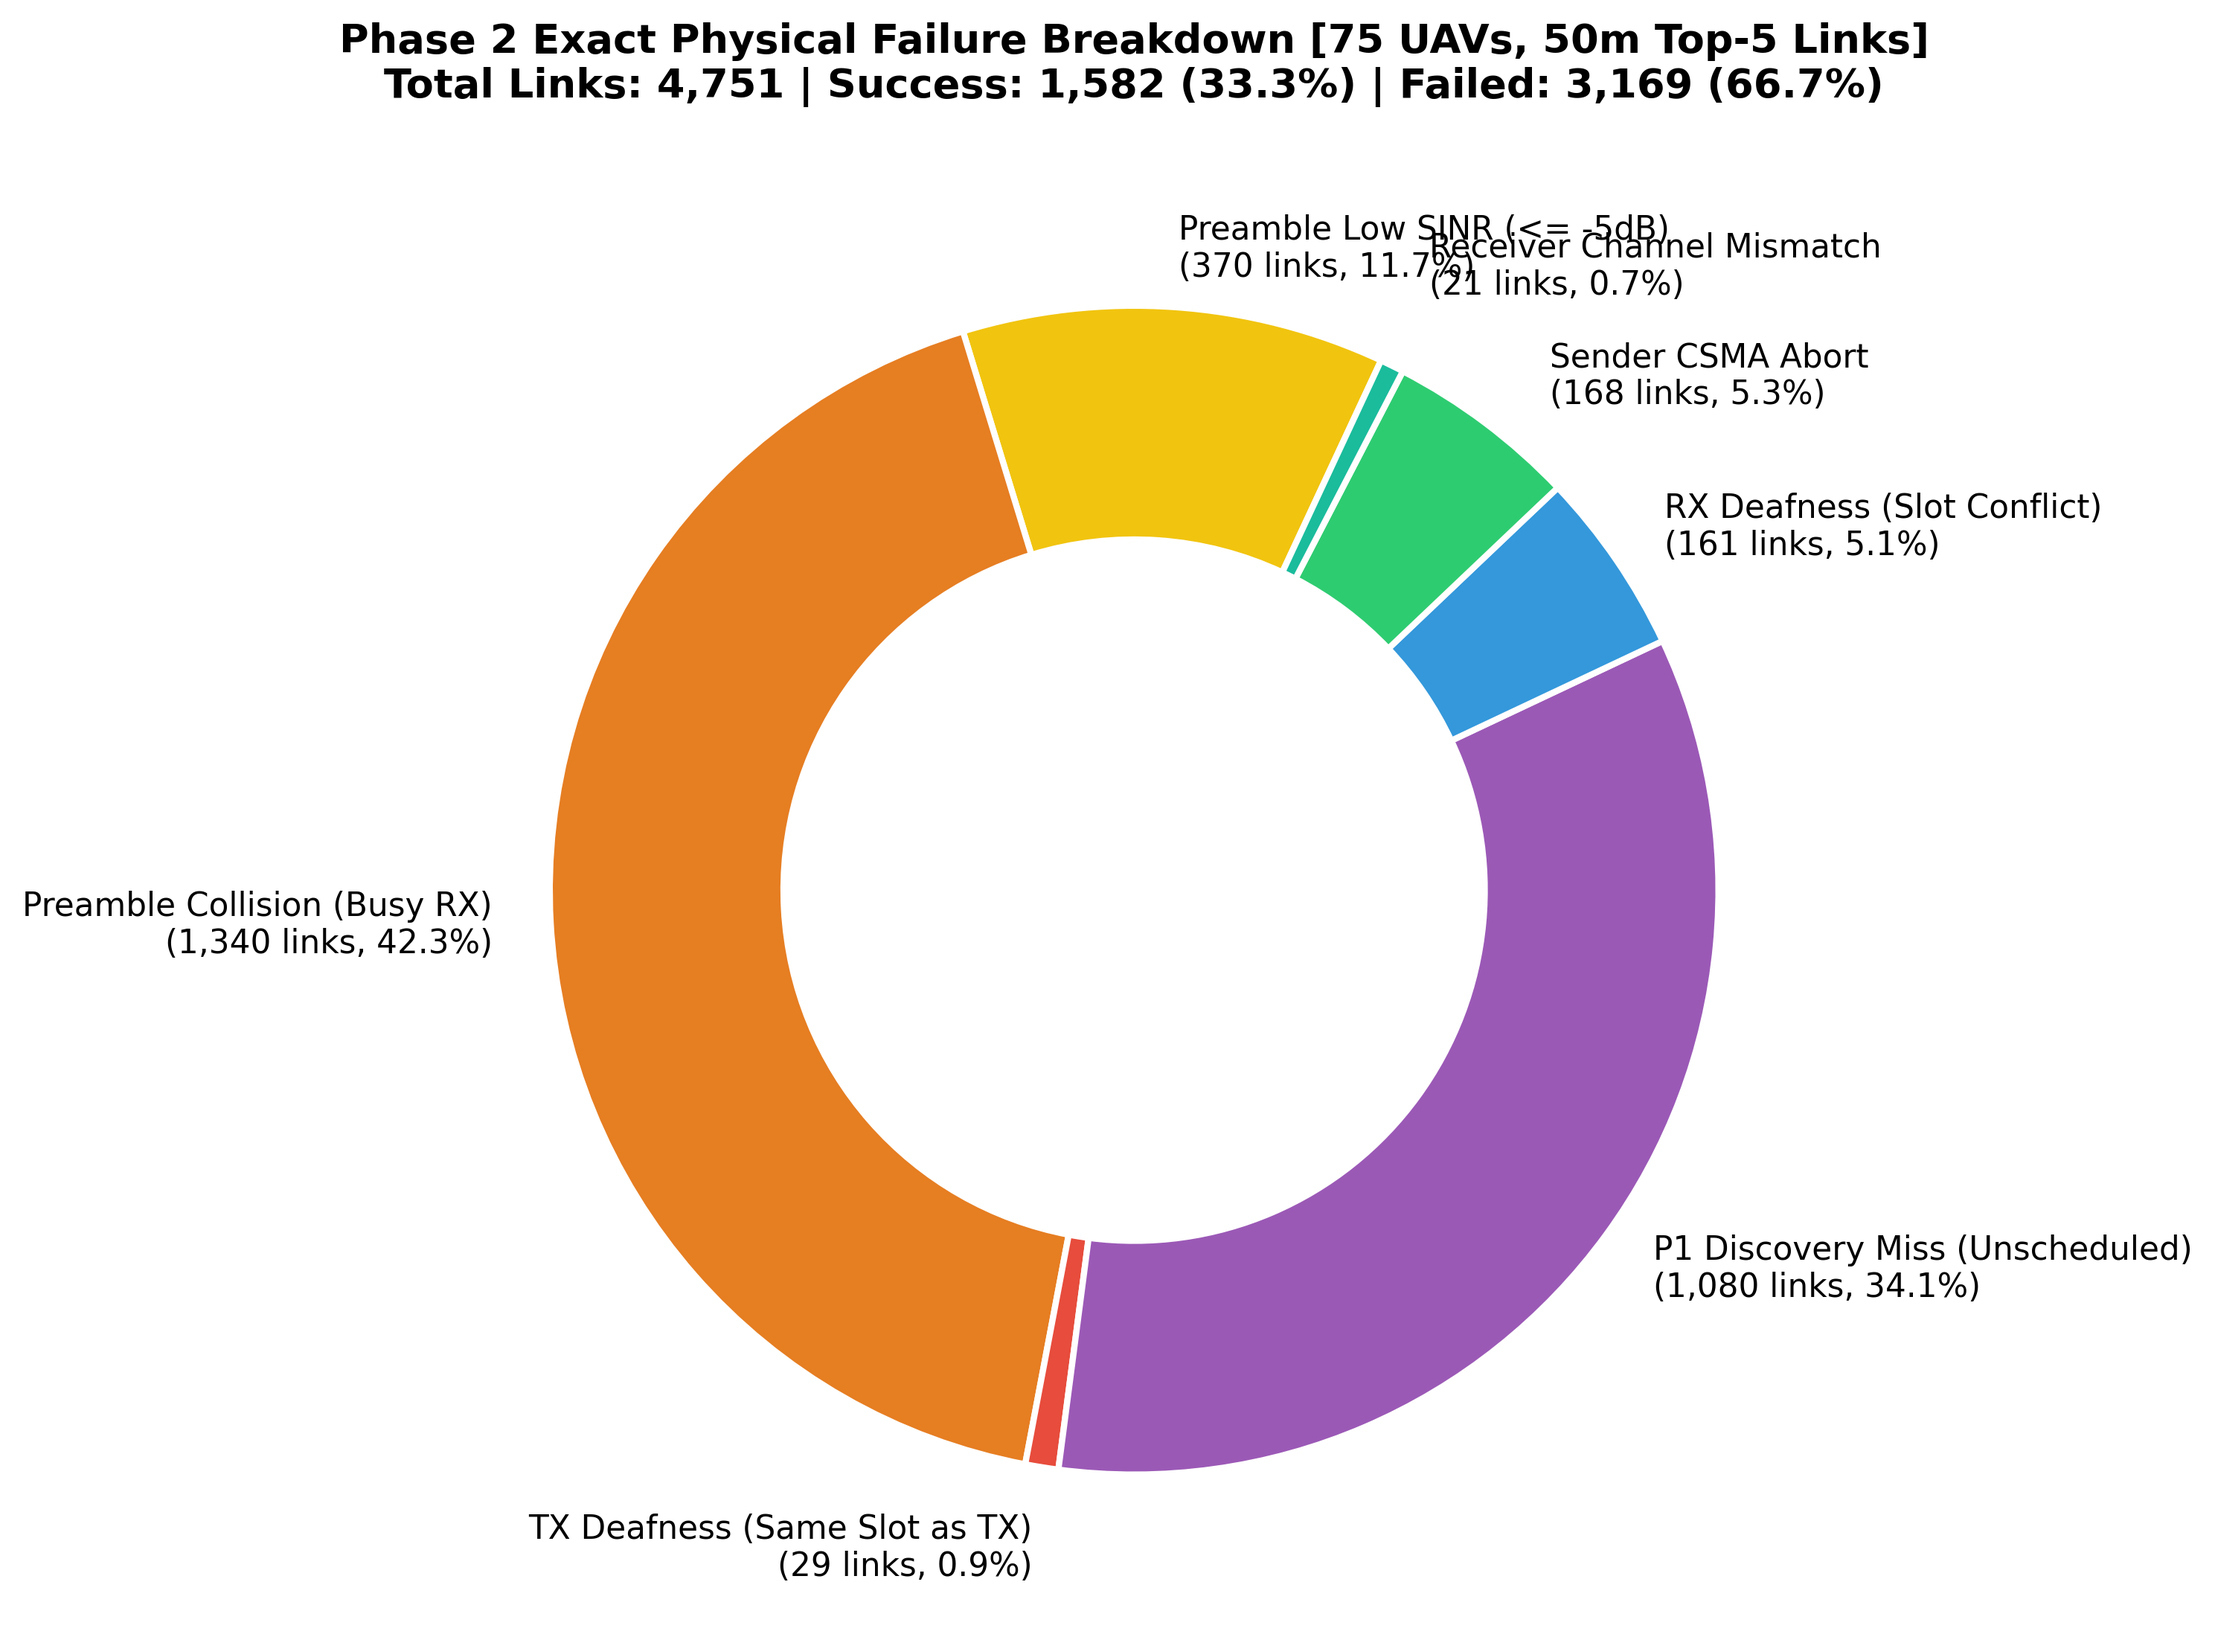
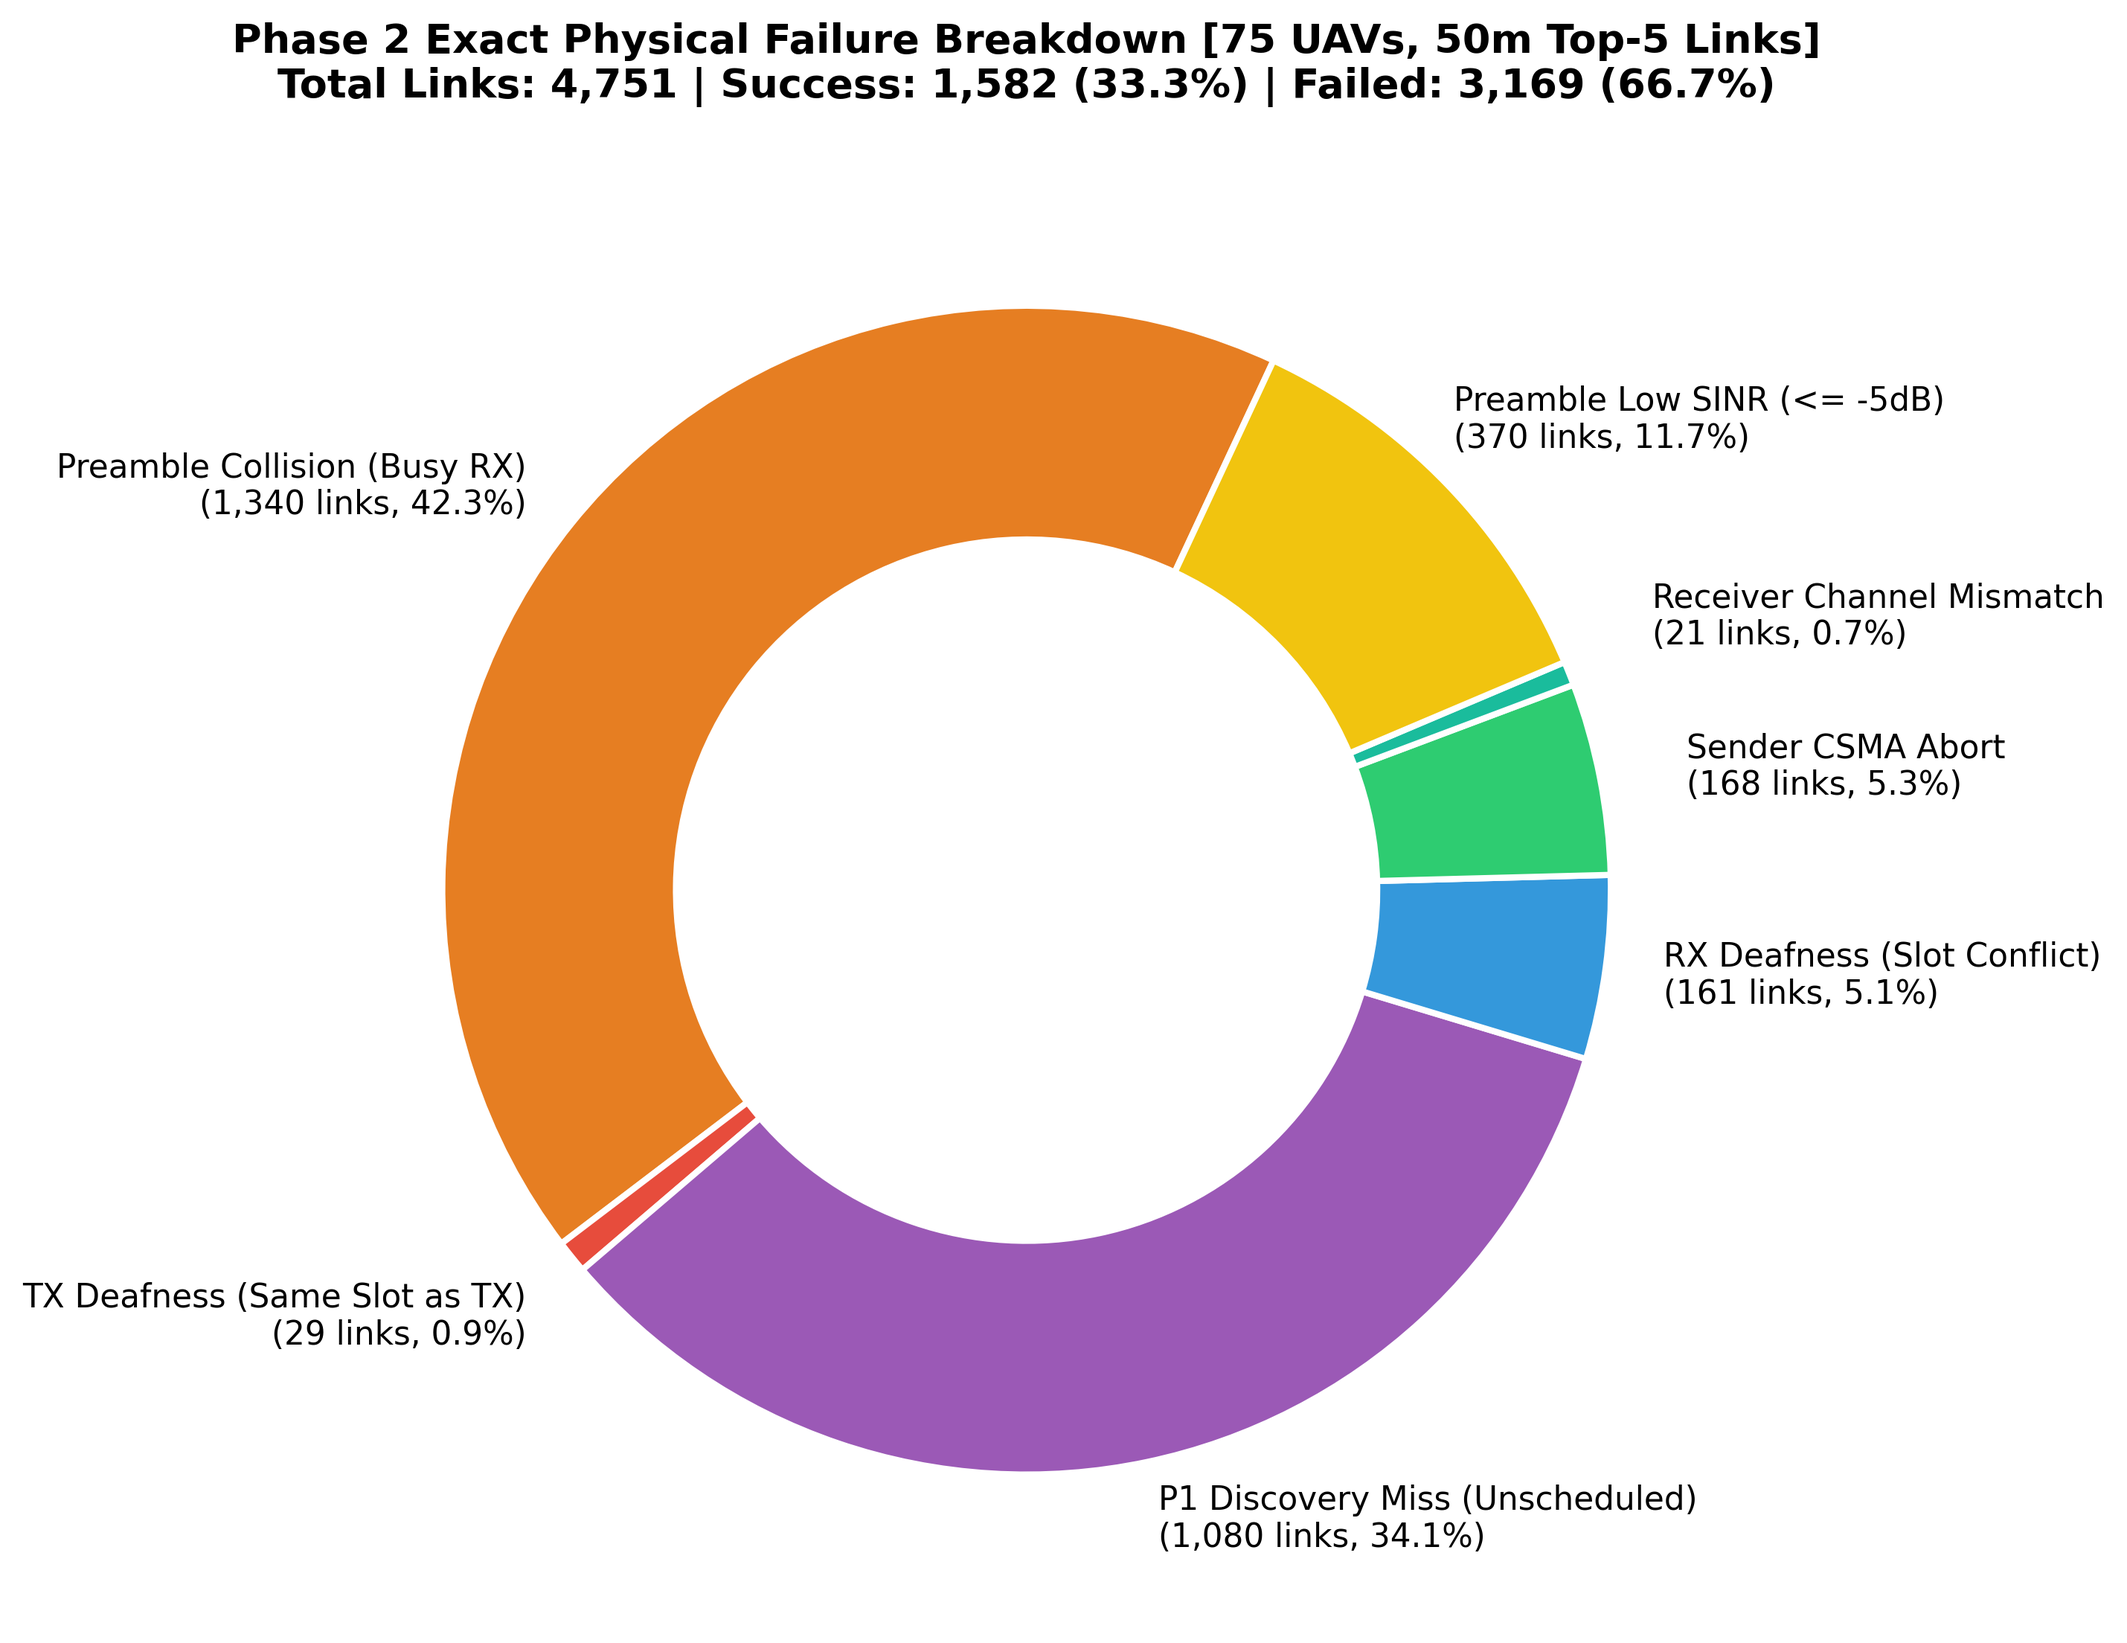
fix(viz): perfect donut slice spacing without any overlap

diff --git a/run_p2_exact_analysis.py b/run_p2_exact_analysis.py
@@ -151,13 +151,13 @@ try:
     }
 
     plot_order = [
-        "PREAMBLE_LOW_SINR",
         "PREAMBLE_COLLISION_BUSY_RX",
         "TX_DEAFNESS_SAME_SLOT",
         "P1_DISCOVERY_MISS",
         "RX_DEAFNESS_SLOT_CONFLICT",
         "SENDER_CSMA_ABORT",
         "RECEIVER_CHANNEL_MISMATCH",
+        "PREAMBLE_LOW_SINR",
         "PAYLOAD_INTERFERENCE_DROP",
         "RADIO_TURNAROUND_BUSY"
     ]
@@ -189,14 +189,18 @@ try:
     for t in texts:
         pos = list(t.get_position())
         if 'Receiver Channel Mismatch' in t.get_text():
-            pos[1] += 0.08
-            pos[0] += 0.02
+            pos[1] += 0.06
+            pos[0] += 0.05
             t.set_position(pos)
         elif 'Sender CSMA Abort' in t.get_text():
             pos[0] += 0.05
             t.set_position(pos)
         elif 'TX Deafness' in t.get_text():
             pos[1] -= 0.04
+            t.set_position(pos)
+        elif 'Preamble Low SINR' in t.get_text():
+            pos[1] += 0.04
+            pos[0] -= 0.06
             t.set_position(pos)
 
     ax.set_title(f"Phase 2 Exact Physical Failure Breakdown [75 UAVs, 50m Top-5 Links]\n"
